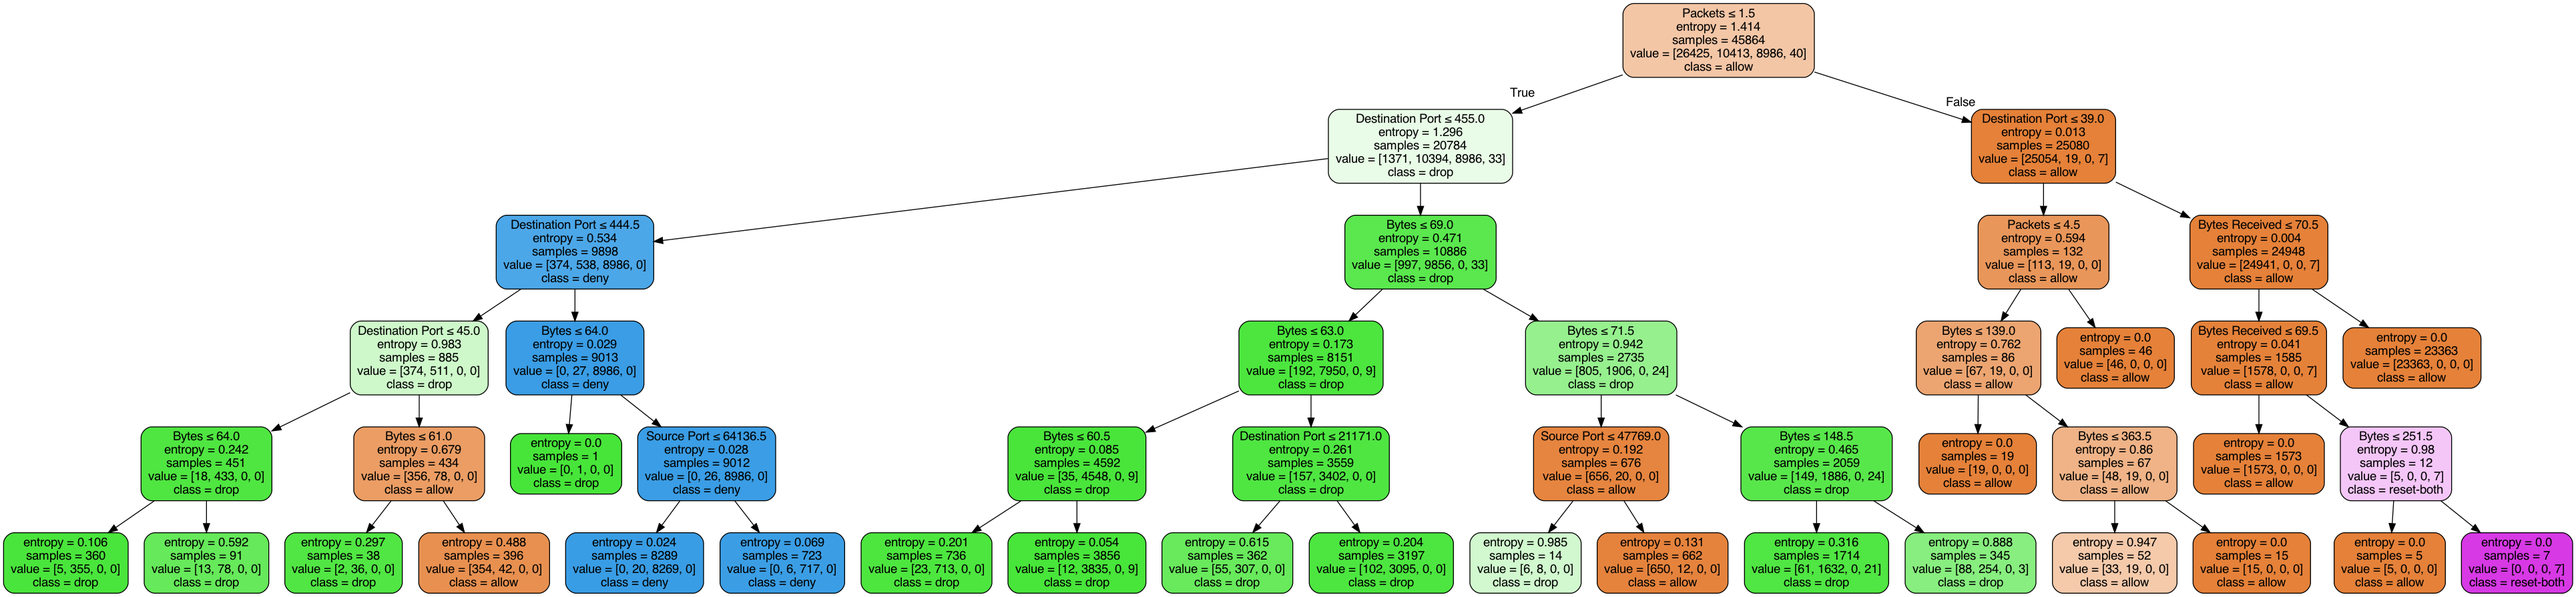
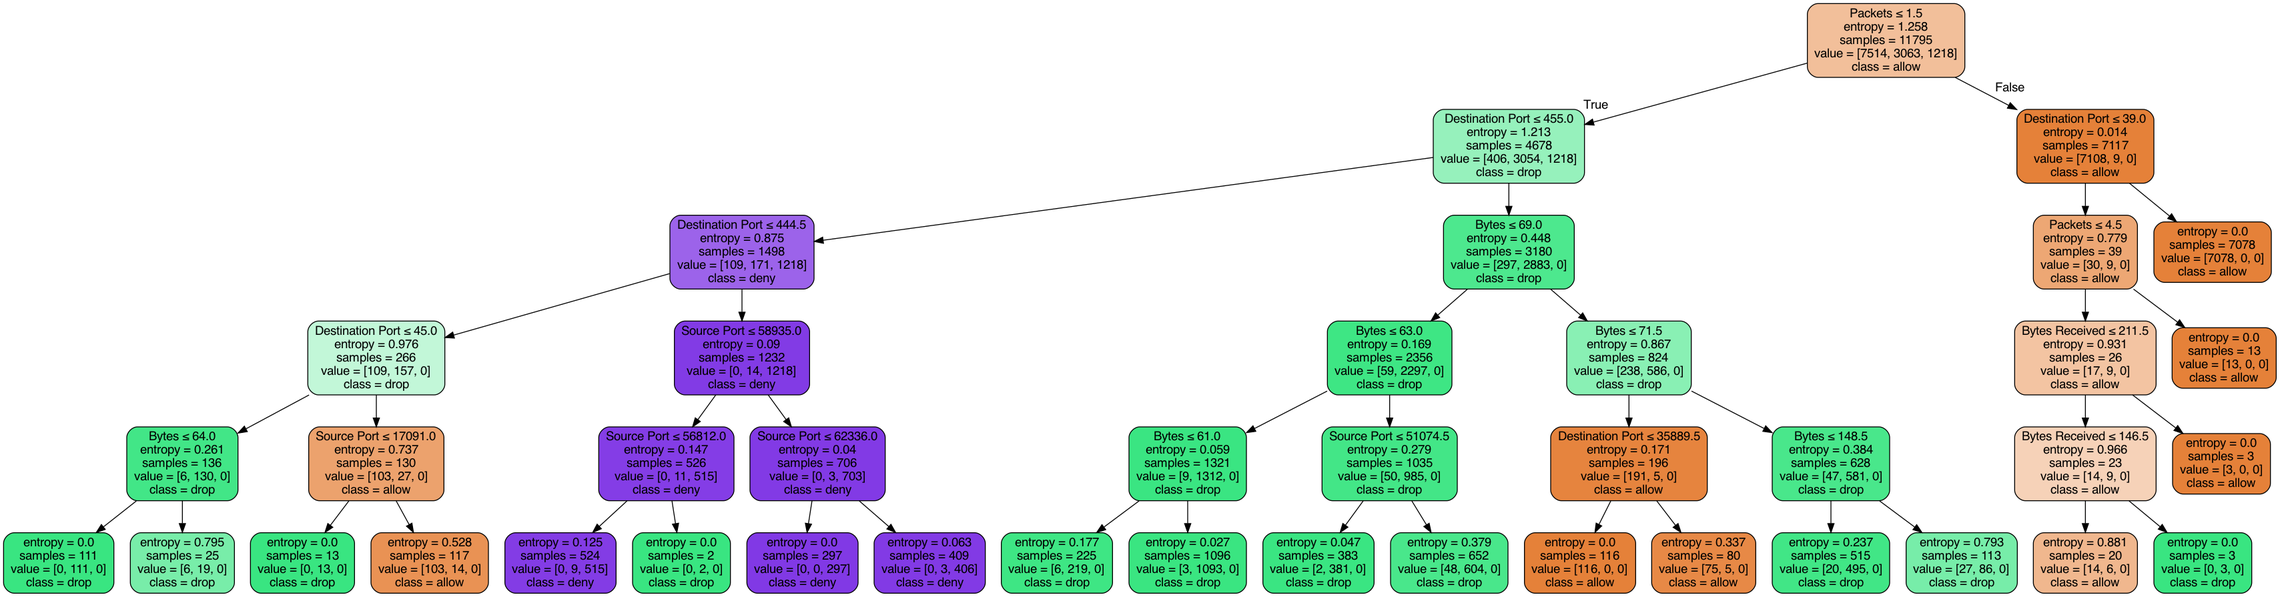
Here is the final program. When you run it, you will have to close each graph before the next graph will load.

diff --git a/kfold.py b/kfold.py
@@ -1,0 +1,71 @@
+import pandas as pd
+import numpy as np
+
+from sklearn.model_selection import KFold, cross_val_score, cross_val_predict
+
+
+# Created testing and training data using K-Fold Cross validation
+# Each fold has a testing set of 10% of the Full set
+# Training set for each fold consists of the remaining 90%
+
+def kfold(frame):
+    df = frame
+
+    dFeature = ['Source Port', 'Destination Port', 'Packets', 'pkts_received', 'Bytes', 'Bytes Received']
+
+    X = np.array(df[dFeature])
+
+    dTarget = ['Action']
+
+    Y = np.array(df[dTarget])
+
+    fold10 = KFold(n_splits=10)
+
+    for train_index, test_index in fold10.split(X):
+        x_train, x_test = X[train_index], X[test_index]
+
+    for train_index, test_index in fold10.split(Y):
+        y_train, y_test = Y[train_index], Y[test_index]
+
+    return x_train, x_test, y_train, y_test
+
+    # Fold 1
+    test1 = df[:1315]
+    training1 = df[1315:13105]
+
+    # Fold 2
+    test2 = df[1316:13106]
+    training2 = df.loc[np.r_[0:1316, 2625:13105], :]
+
+    # Fold 3
+    test3 = df[2625:3935]
+    training3 = df.loc[np.r_[0:2625, 3935:13105], :]
+
+    # Fold 4
+    test4 = df[3935:5245]
+    training4 = df.loc[np.r_[0:3935, 5245:13105], :]
+
+    # Fold 5
+    test5 = df[5245:6555]
+    training5 = df.loc[np.r_[0:5245, 6555:13105], :]
+
+    # Fold 6
+    test6 = df[6555:7865]
+    training6 = df.loc[np.r_[0:6555, 7865:13105], :]
+
+    # Fold 7
+    test7 = df[7865:9175]
+    training7 = df.loc[np.r_[0:7865, 9175:13105], :]
+
+    # Fold 8
+    test8 = df[9175:10485]
+    training8 = df.loc[np.r_[0:9175, 10485:13105], :]
+
+    # Fold 9
+    test9 = df[10485:11795]
+    training9 = df.loc[np.r_[0:10485, 11795:13105], :]
+
+    # Fold 10
+    test10 = df[11795:13105]
+    training10 = df[:13105]
+    print(training10)

diff --git a/decisiontree.py b/decisiontree.py
@@ -1,13 +1,13 @@
 # With this, we will build a decision tree and display the results using sklearn
 
 import confusion
+import kfold
 
 from sklearn.tree import DecisionTreeClassifier, export_graphviz
 from six import StringIO
 from sklearn.model_selection import train_test_split
 from sklearn import metrics
 from sklearn.preprocessing import LabelEncoder
-import matplotlib.pyplot as plt
 from IPython.display import Image as im
 import pydotplus
 from PIL import Image
@@ -37,7 +37,7 @@ def decision_tree(frame):
     # set y values to the target feature
     Y = port_DATA_copy['Action']
 
-    # set up our test and train values with sklearn. Test size will be 50% of the data
+    # set up our test and train values with sklearn. Test size will be 30% of the data
     X_train, X_test, Y_train, Y_test = train_test_split(X, Y, test_size=0.3, random_state=1)
 
     # Set up our Decision Tree Classifier
@@ -50,12 +50,22 @@ def decision_tree(frame):
     predict = tree.predict(X_test)
 
     # use the y test set with the predictions based off of the x test set to find an accuracy percentage
-    print("Accuracy of Test Model: ", metrics.accuracy_score(Y_test, predict))
+    print("Accuracy of Split Test Model: ", metrics.accuracy_score(Y_test, predict))
 
     print_tree(tree, feature)
 
     confusion.confusionMatrix(Y_test, predict)
 
+    # Resample to Evaluate the Model
+    x_train, x_test, y_train, y_test = kfold.kfold(port_DATA_copy)
+
+    tree.fit(x_train, y_train)
+
+    pred = tree.predict(x_test)
+
+    print_tree(tree, feature)
+
+    print("Accuracy of KFold Test Model: ", metrics.accuracy_score(y_test, pred))
 
 def print_tree(frame, feat):
     tree = frame

diff --git a/main.py b/main.py
@@ -3,7 +3,7 @@ import decisiontree
 import entropy
 import dimension
 import euclidean
-# import binning
+import binning
 
 import pandas as pd
 import numpy as np
@@ -14,9 +14,9 @@ file = 'finalData.csv'
 
 def sample():
     # counting lines
-    lines = len(list(file))
-    # samplesize 10 x
-    size = int(lines * 0.1)
+    lines = sum(1 for i in open(file))
+    # samplesize 20 x
+    size = int(lines * 0.2)
     # Randomly skips rows. Only keep size rows. Keeps the header
     skip = random.sample(range(1, lines), lines - size)
 
@@ -32,11 +32,15 @@ def sample():
 
 port_DATA = sample()
 
+print("length: %s", len(port_DATA))
+
 # Some of the values are reading as infinite. Replace with NaN
 port_DATA.replace([np.inf, -np.inf], np.nan, inplace=True)
 
 # Drop the Rows with NaN values
 port_DATA.dropna(inplace=True)
+
+port_DATA = binning.binned(port_DATA)
 
 entropy.ent(port_DATA)
 
@@ -45,5 +49,3 @@ dimension.dim(port_DATA)
 euclidean.euc(port_DATA)
 
 decisiontree.decision_tree(port_DATA)
-
-sample()

diff --git a/binning.py b/binning.py
@@ -4,10 +4,9 @@
 
 import pandas as pd
 
-def binned():
+def binned(frame):
 
-    file = pd.read_csv('finalData.csv')
-    print(file)
+    file = frame
 
     # print("All unique values in action column", file['Action'].unique())
     # print(len(file['Action'].unique()))
